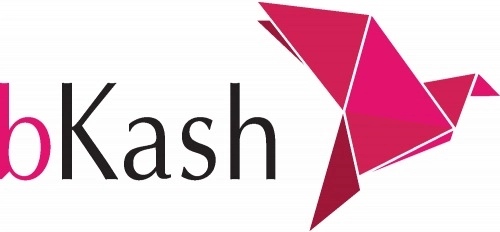
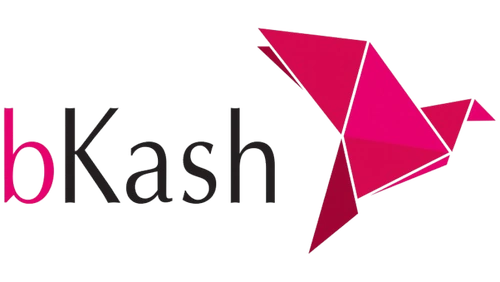
revert(checkout): revert payment method images and styles
This commit reverts the payment method images to previous versions and adjusts associated styles in the `CheckoutPaymentMethod` component and global CSS. This change addresses feedback regarding the visual presentation of payment options.

The changes include:
- Revert payment method image URLs in `CheckoutPaymentMethod.js` to use `cards.webp`, `bkash.webp`, `mobile-banking.webp`, and `internet-banking.webp`.
- Remove the `sslcz-cards.webp`, `sslcz-internet-banking.webp`, and `sslcz-mobile-banking.webp` image files.
- Update the `bkash.webp` image and delete `bkash-cashback-10.webp`.
- Replace `online-banking.webp` with a new `internet-banking.webp` file, with updated text in the image.
- Adjust the hover and checked state styles for payment method inputs in `globals.css` to use primary brand colors.
- Re-enable the `sm:grid-cols-2` class on the payment methods container for a two-column layout on small screens and up.

diff --git a/app/components/checkout/user/CheckoutPaymentMethod.js b/app/components/checkout/user/CheckoutPaymentMethod.js
@@ -5,19 +5,24 @@ export default function CheckoutPaymentMethod({
 }) {
   const paymentMethods = [
     {
-      id: "mobile-bank",
-      value: "mobilebank",
-      imgUrl: "/payment-methods/sslcz-mobile-banking.webp",
-    },
-    {
       id: "cards",
       value: "visacard,mastercard,amexcard,othercard",
-      imgUrl: "/payment-methods/sslcz-cards.webp",
+      imgUrl: "/payment-methods/cards.webp",
+    },
+    {
+      id: "bkash",
+      value: "bkash",
+      imgUrl: "/payment-methods/bkash.webp",
+    },
+    {
+      id: "mobile-bank",
+      value: "mobilebank",
+      imgUrl: "/payment-methods/mobile-banking.webp",
     },
     {
       id: "internet-bank",
       value: "internetbank",
-      imgUrl: "/payment-methods/sslcz-internet-banking.webp",
+      imgUrl: "/payment-methods/internet-banking.webp",
     },
   ];
 
@@ -31,7 +36,7 @@ export default function CheckoutPaymentMethod({
       <h2 className="text-base font-semibold transition-[padding-bottom] duration-300 ease-in-out md:text-lg">
         Select Payment Method
       </h2>
-      <div className="payment-methods relative grid gap-2.5">
+      <div className="payment-methods relative grid gap-2.5 sm:grid-cols-2">
         {paymentMethods.map((paymentMethod) => (
           <input
             key={paymentMethod.id}

diff --git a/app/globals.css b/app/globals.css
@@ -205,7 +205,7 @@
   }
 
   .payment-methods input:not(:disabled)::before {
-    @apply cursor-pointer border-neutral-200 checked:border-neutral-300 checked:bg-neutral-100 hover:border-neutral-300 [&:not(:checked):hover]:bg-neutral-50;
+    @apply cursor-pointer border-neutral-200 checked:border-[var(--color-primary-700)] checked:bg-[var(--color-primary-300)] [&:not(:checked):hover]:border-[var(--color-primary-700)] [&:not(:checked):hover]:bg-[var(--color-primary-300)];
   }
 
   .payment-methods input:disabled::before {
